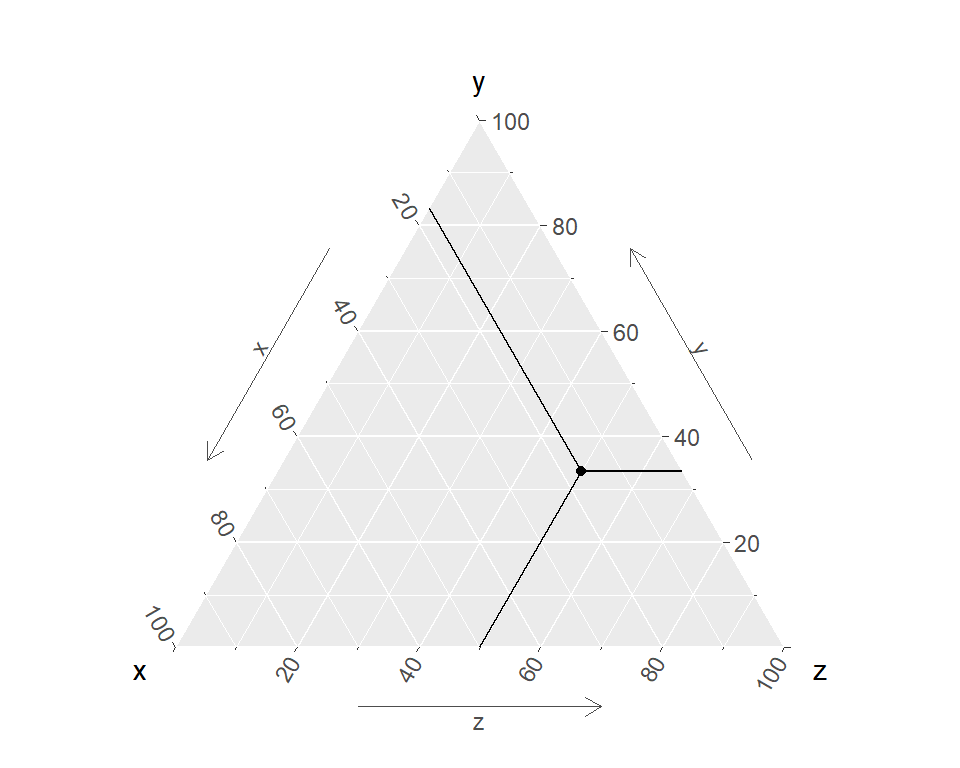
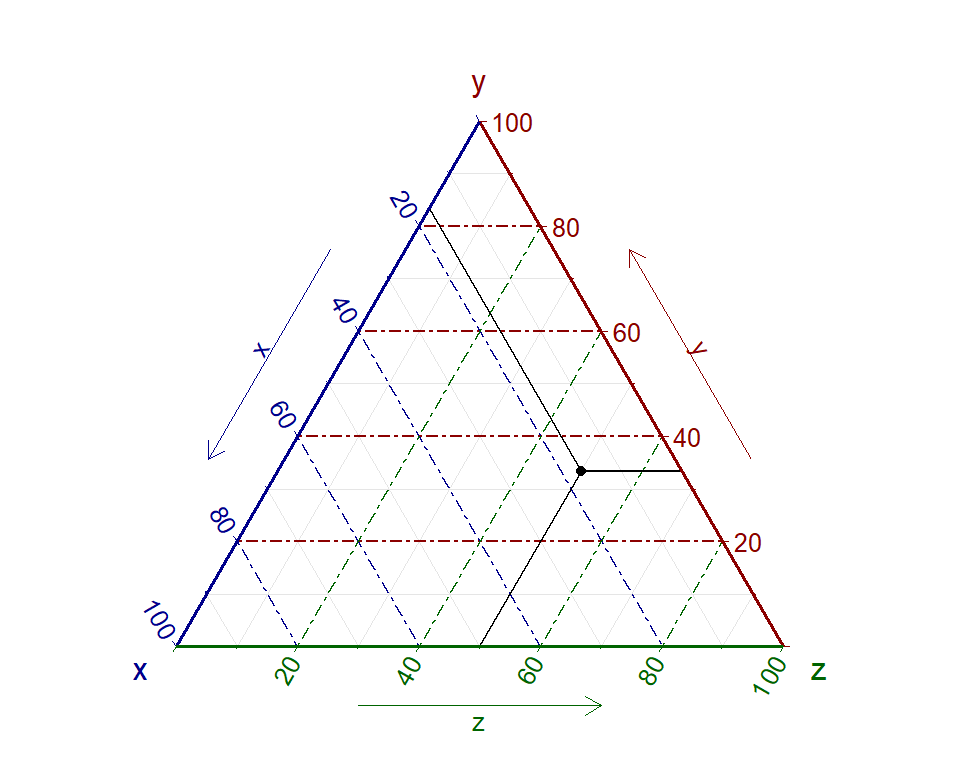
u

diff --git a/_posts/2024-12-20-post-38-creating-ternary-plots-with-ggtern/post-38-creating-ternary-plots-with-ggtern.html b/_posts/2024-12-20-post-38-creating-ternary-plots-with-ggtern/post-38-creating-ternary-plots-with-ggtern.html
@@ -118,7 +118,7 @@ code span.wa { color: #5e5e5e; font-style: italic; } /* Warning */
   <!--/radix_placeholder_rmarkdown_metadata-->
   
   <script type="text/json" id="radix-resource-manifest">
-  {"type":"character","attributes":{},"value":["post-38-creating-ternary-plots-with-ggtern_files/anchor-4.2.2/anchor.min.js","post-38-creating-ternary-plots-with-ggtern_files/bowser-1.9.3/bowser.min.js","post-38-creating-ternary-plots-with-ggtern_files/distill-2.2.21/template.v2.js","post-38-creating-ternary-plots-with-ggtern_files/figure-html5/unnamed-chunk-1-1.png","post-38-creating-ternary-plots-with-ggtern_files/figure-html5/unnamed-chunk-2-1.png","post-38-creating-ternary-plots-with-ggtern_files/figure-html5/unnamed-chunk-3-1.png","post-38-creating-ternary-plots-with-ggtern_files/header-attrs-2.27/header-attrs.js","post-38-creating-ternary-plots-with-ggtern_files/jquery-3.6.0/jquery-3.6.0.js","post-38-creating-ternary-plots-with-ggtern_files/jquery-3.6.0/jquery-3.6.0.min.js","post-38-creating-ternary-plots-with-ggtern_files/jquery-3.6.0/jquery-3.6.0.min.map","post-38-creating-ternary-plots-with-ggtern_files/popper-2.6.0/popper.min.js","post-38-creating-ternary-plots-with-ggtern_files/tippy-6.2.7/tippy-bundle.umd.min.js","post-38-creating-ternary-plots-with-ggtern_files/tippy-6.2.7/tippy-light-border.css","post-38-creating-ternary-plots-with-ggtern_files/tippy-6.2.7/tippy.css","post-38-creating-ternary-plots-with-ggtern_files/tippy-6.2.7/tippy.umd.min.js","post-38-creating-ternary-plots-with-ggtern_files/webcomponents-2.0.0/webcomponents.js"]}
+  {"type":"character","attributes":{},"value":["post-38-creating-ternary-plots-with-ggtern_files/anchor-4.2.2/anchor.min.js","post-38-creating-ternary-plots-with-ggtern_files/bowser-1.9.3/bowser.min.js","post-38-creating-ternary-plots-with-ggtern_files/distill-2.2.21/template.v2.js","post-38-creating-ternary-plots-with-ggtern_files/figure-html5/unnamed-chunk-1-1.png","post-38-creating-ternary-plots-with-ggtern_files/figure-html5/unnamed-chunk-2-1.png","post-38-creating-ternary-plots-with-ggtern_files/figure-html5/unnamed-chunk-3-1.png","post-38-creating-ternary-plots-with-ggtern_files/figure-html5/unnamed-chunk-4-1.png","post-38-creating-ternary-plots-with-ggtern_files/figure-html5/unnamed-chunk-4-2.png","post-38-creating-ternary-plots-with-ggtern_files/figure-html5/unnamed-chunk-5-1.png","post-38-creating-ternary-plots-with-ggtern_files/figure-html5/unnamed-chunk-6-1.png","post-38-creating-ternary-plots-with-ggtern_files/header-attrs-2.27/header-attrs.js","post-38-creating-ternary-plots-with-ggtern_files/jquery-3.6.0/jquery-3.6.0.js","post-38-creating-ternary-plots-with-ggtern_files/jquery-3.6.0/jquery-3.6.0.min.js","post-38-creating-ternary-plots-with-ggtern_files/jquery-3.6.0/jquery-3.6.0.min.map","post-38-creating-ternary-plots-with-ggtern_files/popper-2.6.0/popper.min.js","post-38-creating-ternary-plots-with-ggtern_files/tippy-6.2.7/tippy-bundle.umd.min.js","post-38-creating-ternary-plots-with-ggtern_files/tippy-6.2.7/tippy-light-border.css","post-38-creating-ternary-plots-with-ggtern_files/tippy-6.2.7/tippy.css","post-38-creating-ternary-plots-with-ggtern_files/tippy-6.2.7/tippy.umd.min.js","post-38-creating-ternary-plots-with-ggtern_files/webcomponents-2.0.0/webcomponents.js"]}
   </script>
   <!--radix_placeholder_navigation_in_header-->
   <!--/radix_placeholder_navigation_in_header-->
@@ -1639,10 +1639,10 @@ div.l-body img {
 <p>I remember I first came across a ternary plot in an Ecology textbook years ago when I was learning the classic <a href="https://meristemhorticulture.com/planted/tag/Grime%27s+triangle">Grime’s CRS Triangle</a> for depicting three major plant life strategies (competitor, stress-tolerator, and ruderal) under different stress, resource, and disturbance regimes. I was really fascinated with it, but I didn’t know how to make one myself back then. Now I know, and I thought it would be fun (and useful too!) to write a post on creating ternary plots in ggplot. So let’s dive in!</p>
 <h2 id="ternary-plots-with-ggtern">Ternary plots with <code>ggtern</code></h2>
 <p>The extension package <a href="https://cran.r-project.org/web/packages/ggtern/index.html"><code>ggtern</code></a> provides a suite of functions for creating ternary plots in ggplot. We’ll start from the very basics, gradually add in some variation and complexity, and finally finish by polishing the plot appearance.</p>
-<h3 id="create-a-basic-ternary-plot">1. Create a basic ternary plot</h3>
+<h3 id="start-with-a-point-basic-ternary-plot">1. Start with a point: basic ternary plot</h3>
 <p>First, let’s create a super simple ternary plot with just a single point.</p>
 <p><code>ggtern()</code> is the master function here: it takes a dataframe with three numeric columns, which are then mapped to the “x”, “y”, and “z” aesthetic. If the three columns are not proportions but instead raw values, the function will automatically rescale them so that each row sums to 1.</p>
-<p>In the example below, I also drew the lines connecting the point to the sides using the function <code>geom_crosshair_tern()</code> and added the arrows and labels along the axes using the function <code>theme_arrownormal()</code>. These will help us better understand what the plot is doing.</p>
+<p>In the example below, I drew the lines connecting the point to the sides using the function <code>geom_crosshair_tern()</code>. I also colored the axes and gridlines as well as added the arrows and labels using the function <code>theme_rgbw()</code>. These will help us better understand what the plot is doing.</p>
 <div class="layout-chunk" data-layout="l-body">
 <div class="sourceCode">
 <pre class="sourceCode r"><code class="sourceCode r"><span><span class='kw'><a href='https://rdrr.io/r/base/library.html'>library</a></span><span class='op'>(</span><span class='va'><a href='https://tidyverse.tidyverse.org'>tidyverse</a></span><span class='op'>)</span></span>
@@ -1654,15 +1654,15 @@ div.l-body img {
 <span><span class='co'>### Create a basic ternary plot</span></span>
 <span><span class='fu'><a href='https://rdrr.io/pkg/ggtern/man/ggtern.html'>ggtern</a></span><span class='op'>(</span>data <span class='op'>=</span> <span class='va'>ternary_df_point</span>, <span class='fu'>aes</span><span class='op'>(</span>x <span class='op'>=</span> <span class='va'>x</span>, y <span class='op'>=</span> <span class='va'>y</span>, z <span class='op'>=</span> <span class='va'>z</span><span class='op'>)</span><span class='op'>)</span> <span class='op'>+</span>  <span class='co'># the values will be rescaled </span></span>
 <span>  <span class='fu'><a href='https://ggplot2.tidyverse.org/reference/geom_point.html'>geom_point</a></span><span class='op'>(</span><span class='op'>)</span> <span class='op'>+</span></span>
-<span>  <span class='fu'><a href='https://rdrr.io/pkg/ggtern/man/geom_crosshair_tern.html'>geom_crosshair_tern</a></span><span class='op'>(</span><span class='op'>)</span> <span class='op'>+</span>  <span class='co'># draw the lines</span></span>
-<span>  <span class='fu'><a href='https://rdrr.io/pkg/ggtern/man/theme_arrowlength.html'>theme_arrownormal</a></span><span class='op'>(</span><span class='op'>)</span>  <span class='co'># add the arrows and labels</span></span></code></pre>
+<span>  <span class='fu'><a href='https://rdrr.io/pkg/ggtern/man/geom_crosshair_tern.html'>geom_crosshair_tern</a></span><span class='op'>(</span><span class='op'>)</span> <span class='op'>+</span>  <span class='co'># draw the lines connecting the point to the sides</span></span>
+<span>  <span class='fu'><a href='https://rdrr.io/pkg/ggtern/man/ggtern_themes.html'>theme_rgbw</a></span><span class='op'>(</span><span class='op'>)</span>  <span class='co'># color the axes and gridlines &amp; add the arrows and labels</span></span></code></pre>
 </div>
 <p><img src="post-38-creating-ternary-plots-with-ggtern_files/figure-html5/unnamed-chunk-1-1.png" width="480" style="display: block; margin: auto;" /></p>
 </div>
 <p>If you’re new to ternary plots, you may be scratching your head about how to read the plot. Well, it’s not that difficult once you understand the principle: as indicated by the lines, the point corresponds to an x-value of around 17% (1/6), a y-value of around 33% (2/6), and a z-value of 50% (3/6).</p>
 <p>For plots that do not have the lines (which are most likely what you’ll see in the wild), you can draw mental lines from the point to the sides with the same angle as the numbers. So for example, the numbers on the “x” side have an angle of 120°, so you can draw a line with an angle of 120° from the point to the side and see what the corresponding value is.</p>
-<h3 id="from-points-to-lines">2. From points to lines</h3>
-<p>Now that we have a better idea of how ternary plots work, we can take a step further and add . Instead of just showing the individual points, we can actually connect them to create a “ternary line chart”. This will be useful for visualizing how compositions change over time.</p>
+<h3 id="from-point-to-line-ternary-line-chart">2. From point to line: ternary line chart</h3>
+<p>Now that we have a better idea of how ternary plots work, we can take a step further. Instead of just showing the individual points, we can connect them to create a “ternary line chart”. This will be useful for visualizing how composition changes over time.</p>
 <div class="layout-chunk" data-layout="l-body">
 <div class="sourceCode">
 <pre class="sourceCode r"><code class="sourceCode r"><span><span class='co'>### Generate the data</span></span>
@@ -1677,47 +1677,96 @@ div.l-body img {
 <span>  <span class='fu'><a href='https://ggplot2.tidyverse.org/reference/geom_path.html'>geom_line</a></span><span class='op'>(</span><span class='fu'>aes</span><span class='op'>(</span>color <span class='op'>=</span> <span class='va'>time</span><span class='op'>)</span><span class='op'>)</span> <span class='op'>+</span></span>
 <span>  <span class='fu'><a href='https://ggplot2.tidyverse.org/reference/scale_viridis.html'>scale_color_viridis_c</a></span><span class='op'>(</span>breaks <span class='op'>=</span> <span class='fu'><a href='https://rdrr.io/r/base/c.html'>c</a></span><span class='op'>(</span><span class='fl'>1</span>, <span class='fl'>10</span><span class='op'>)</span><span class='op'>)</span> <span class='op'>+</span> </span>
 <span>  <span class='fu'><a href='https://ggplot2.tidyverse.org/reference/guides.html'>guides</a></span><span class='op'>(</span>color <span class='op'>=</span> <span class='fu'><a href='https://ggplot2.tidyverse.org/reference/guide_colourbar.html'>guide_colorbar</a></span><span class='op'>(</span>reverse <span class='op'>=</span> <span class='cn'>T</span><span class='op'>)</span><span class='op'>)</span> <span class='op'>+</span> </span>
-<span>  <span class='fu'><a href='https://rdrr.io/pkg/ggtern/man/theme_arrowlength.html'>theme_arrownormal</a></span><span class='op'>(</span><span class='op'>)</span></span></code></pre>
+<span>  <span class='fu'><a href='https://rdrr.io/pkg/ggtern/man/theme_arrowlength.html'>theme_arrownormal</a></span><span class='op'>(</span><span class='op'>)</span>  <span class='co'># add the arrows and labels without colors</span></span></code></pre>
 </div>
 <p><img src="post-38-creating-ternary-plots-with-ggtern_files/figure-html5/unnamed-chunk-2-1.png" width="480" style="display: block; margin: auto;" /></p>
 </div>
-<h3 id="contour-ternary-plot">3. Contour ternary plot</h3>
-<p>Next, we’ll go from lines to areas by adding density contours to the ternary plot.</p>
-<p>Remember I mentioned that one application of ternary plots is to visualize the nutrient composition of food, and this is what we’re going to do now.</p>
-<p>We’ll show the carbs, protein, and fat proportion of different food items at starbucks using the <a href=""><code>starbucks</code></a> dataset from the package <code>openintro</code>.</p>
-<p>We can add the contours using the function <code>stat_density_tern()</code>. We also used <code>theme_rgbw()</code> to color the sides for easier reading.</p>
+<h3 id="from-line-to-area-ternary-contour-plot">3. From line to area: ternary contour plot</h3>
+<p>Next, we’ll go from a line to an area by adding density contours to the ternary plot.</p>
+<p>As mentioned in the beginning, one application of ternary plots is visualizing the nutrient composition of food, and this is what we’re going to do now. We’ll use the <code>starbucks</code> dataset from the package <code>openintro</code> to visualize the carbs, protein, and fat content of different food items sold at starbucks.</p>
+<p>We can add density contours to the plot using the function <code>stat_density_tern()</code> and map the relative density “nlevel” (computed via the 2D kernel density estimation) to the “fill” and “alpha” aesthetics. We can adjust how close the contour lines are (i.e., the “steepness” of the slope) using the argument “binwidth”: a larger binwidth produces sparser, smoother contour lines, whereas a smaller binwidth produces denser, more detailed contour lines.</p>
 <div class="layout-chunk" data-layout="l-body">
 <div class="sourceCode">
 <pre class="sourceCode r"><code class="sourceCode r"><span><span class='kw'><a href='https://rdrr.io/r/base/library.html'>library</a></span><span class='op'>(</span><span class='va'><a href='http://openintrostat.github.io/openintro/'>openintro</a></span><span class='op'>)</span>  <span class='co'># for the dataset "starbucks"</span></span>
-<span></span>
 <span><span class='fu'><a href='https://rdrr.io/r/utils/data.html'>data</a></span><span class='op'>(</span><span class='st'>"starbucks"</span><span class='op'>)</span></span>
 <span></span>
-<span><span class='fu'><a href='https://rdrr.io/pkg/ggtern/man/ggtern.html'>ggtern</a></span><span class='op'>(</span>data <span class='op'>=</span> <span class='va'>starbucks</span>,</span>
-<span>       mapping <span class='op'>=</span> <span class='fu'>aes</span><span class='op'>(</span>x <span class='op'>=</span> <span class='va'>carb</span>, y <span class='op'>=</span> <span class='va'>protein</span>, z <span class='op'>=</span> <span class='va'>fat</span><span class='op'>)</span><span class='op'>)</span> <span class='op'>+</span></span>
-<span>  <span class='fu'><a href='https://rdrr.io/pkg/ggtern/man/geom_density_tern.html'>stat_density_tern</a></span><span class='op'>(</span>geom<span class='op'>=</span><span class='st'>"polygon"</span>,</span>
-<span>                     <span class='fu'>aes</span><span class='op'>(</span>fill  <span class='op'>=</span> <span class='fu'><a href='https://ggplot2.tidyverse.org/reference/aes_eval.html'>after_stat</a></span><span class='op'>(</span><span class='va'>nlevel</span><span class='op'>)</span>,</span>
-<span>                         alpha <span class='op'>=</span> <span class='fu'><a href='https://ggplot2.tidyverse.org/reference/aes_eval.html'>after_stat</a></span><span class='op'>(</span><span class='va'>nlevel</span><span class='op'>)</span><span class='op'>)</span>,</span>
-<span>                    binwidth <span class='op'>=</span> <span class='fl'>0.5</span><span class='op'>)</span> <span class='op'>+</span> </span>
-<span>      <span class='fu'><a href='https://rdrr.io/pkg/ggtern/man/geom_density_tern.html'>stat_density_tern</a></span><span class='op'>(</span>geom<span class='op'>=</span><span class='st'>"polygon"</span>,</span>
-<span>                      coutour <span class='op'>=</span> <span class='cn'>T</span>,</span>
-<span>                      color <span class='op'>=</span> <span class='st'>"black"</span>,</span>
-<span>                      fill <span class='op'>=</span> <span class='cn'>NA</span>,</span>
+<span><span class='co'>### Create a ternary contour plot</span></span>
+<span><span class='fu'><a href='https://rdrr.io/pkg/ggtern/man/ggtern.html'>ggtern</a></span><span class='op'>(</span>data <span class='op'>=</span> <span class='va'>starbucks</span>, <span class='fu'>aes</span><span class='op'>(</span>x <span class='op'>=</span> <span class='va'>carb</span>, y <span class='op'>=</span> <span class='va'>protein</span>, z <span class='op'>=</span> <span class='va'>fat</span><span class='op'>)</span><span class='op'>)</span> <span class='op'>+</span></span>
+<span>  <span class='fu'><a href='https://rdrr.io/pkg/ggtern/man/geom_density_tern.html'>stat_density_tern</a></span><span class='op'>(</span>geom <span class='op'>=</span> <span class='st'>"polygon"</span>, </span>
+<span>                    <span class='fu'>aes</span><span class='op'>(</span>fill <span class='op'>=</span> <span class='fu'><a href='https://ggplot2.tidyverse.org/reference/aes_eval.html'>after_stat</a></span><span class='op'>(</span><span class='va'>nlevel</span><span class='op'>)</span>, alpha <span class='op'>=</span> <span class='fu'><a href='https://ggplot2.tidyverse.org/reference/aes_eval.html'>after_stat</a></span><span class='op'>(</span><span class='va'>nlevel</span><span class='op'>)</span><span class='op'>)</span>,</span>
+<span>                    binwidth <span class='op'>=</span> <span class='fl'>0.5</span><span class='op'>)</span> <span class='op'>+</span>   <span class='co'># binwidth controls how close the contour lines are</span></span>
+<span>  <span class='fu'><a href='https://rdrr.io/pkg/ggtern/man/geom_density_tern.html'>stat_density_tern</a></span><span class='op'>(</span>geom <span class='op'>=</span> <span class='st'>"polygon"</span>,</span>
+<span>                    color <span class='op'>=</span> <span class='st'>"black"</span>, </span>
+<span>                    fill <span class='op'>=</span> <span class='cn'>NA</span>,</span>
 <span>                    binwidth <span class='op'>=</span> <span class='fl'>5</span>,</span>
-<span>                    size <span class='op'>=</span> <span class='fl'>0.05</span><span class='op'>)</span> <span class='op'>+</span> </span>
-<span>    <span class='fu'><a href='https://ggplot2.tidyverse.org/reference/geom_point.html'>geom_point</a></span><span class='op'>(</span>size <span class='op'>=</span> <span class='fl'>1</span>, alpha <span class='op'>=</span> <span class='fl'>0.7</span><span class='op'>)</span> <span class='op'>+</span></span>
-<span>    <span class='fu'><a href='https://ggplot2.tidyverse.org/reference/scale_brewer.html'>scale_fill_distiller</a></span><span class='op'>(</span>name <span class='op'>=</span> <span class='st'>"Relative density"</span>, palette <span class='op'>=</span> <span class='st'>"Reds"</span>, direction <span class='op'>=</span> <span class='fl'>1</span>,</span>
-<span>                         breaks <span class='op'>=</span> <span class='fu'><a href='https://rdrr.io/r/base/c.html'>c</a></span><span class='op'>(</span><span class='fl'>0.1</span>, <span class='fl'>0.3</span>, <span class='fl'>0.5</span>, <span class='fl'>0.7</span>, <span class='fl'>0.9</span><span class='op'>)</span><span class='op'>)</span> <span class='op'>+</span> </span>
+<span>                    linewidth <span class='op'>=</span> <span class='fl'>0.1</span><span class='op'>)</span> <span class='op'>+</span> </span>
+<span>  <span class='fu'><a href='https://ggplot2.tidyverse.org/reference/geom_point.html'>geom_point</a></span><span class='op'>(</span>size <span class='op'>=</span> <span class='fl'>1</span>, alpha <span class='op'>=</span> <span class='fl'>0.5</span><span class='op'>)</span> <span class='op'>+</span> </span>
+<span>  <span class='fu'><a href='https://ggplot2.tidyverse.org/reference/scale_brewer.html'>scale_fill_distiller</a></span><span class='op'>(</span>name <span class='op'>=</span> <span class='st'>"Relative density"</span>, </span>
+<span>                       palette <span class='op'>=</span> <span class='st'>"Reds"</span>, </span>
+<span>                       direction <span class='op'>=</span> <span class='fl'>1</span>,</span>
+<span>                       breaks <span class='op'>=</span> <span class='fu'><a href='https://rdrr.io/r/base/c.html'>c</a></span><span class='op'>(</span><span class='fl'>0.1</span>, <span class='fl'>0.3</span>, <span class='fl'>0.5</span>, <span class='fl'>0.7</span>, <span class='fl'>0.9</span><span class='op'>)</span><span class='op'>)</span> <span class='op'>+</span> </span>
 <span>  <span class='fu'><a href='https://ggplot2.tidyverse.org/reference/guides.html'>guides</a></span><span class='op'>(</span>alpha <span class='op'>=</span> <span class='st'>"none"</span><span class='op'>)</span> <span class='op'>+</span> </span>
-<span>    <span class='fu'><a href='https://rdrr.io/pkg/ggtern/man/ggtern_themes.html'>theme_rgbw</a></span><span class='op'>(</span><span class='op'>)</span> <span class='op'>+</span> </span>
+<span>  <span class='fu'><a href='https://rdrr.io/pkg/ggtern/man/ggtern_themes.html'>theme_rgbw</a></span><span class='op'>(</span><span class='op'>)</span> <span class='op'>+</span> </span>
 <span>  <span class='fu'><a href='https://ggplot2.tidyverse.org/reference/theme.html'>theme</a></span><span class='op'>(</span>legend.position <span class='op'>=</span> <span class='fu'><a href='https://rdrr.io/r/base/c.html'>c</a></span><span class='op'>(</span><span class='fl'>1.05</span>, <span class='fl'>0.5</span><span class='op'>)</span>,</span>
 <span>        legend.title <span class='op'>=</span> <span class='fu'><a href='https://ggplot2.tidyverse.org/reference/element.html'>element_text</a></span><span class='op'>(</span>hjust <span class='op'>=</span> <span class='fl'>0.5</span><span class='op'>)</span>,</span>
 <span>        plot.margin <span class='op'>=</span> <span class='fu'><a href='https://ggplot2.tidyverse.org/reference/element.html'>margin</a></span><span class='op'>(</span>r <span class='op'>=</span> <span class='fl'>70</span><span class='op'>)</span><span class='op'>)</span></span></code></pre>
 </div>
 <p><img src="post-38-creating-ternary-plots-with-ggtern_files/figure-html5/unnamed-chunk-3-1.png" width="480" style="display: block; margin: auto;" /></p>
 </div>
-<p>Seems like most food at Starbucks is high in carbs and low in protein (not surprising?!).</p>
-<h3 id="hex-plot-and-tri-plot">4. hex plot and tri plot</h3>
-<h3 id="interpolation-of-z-values">5. Interpolation of z values</h3>
+<p>Seems like most Starbucks food is high in carbs and low in protein (not surprising?!).</p>
+<h3 id="from-area-to-bin-ternary-tribin-and-hexbin-plot">4. From area to bin: ternary tribin and hexbin plot</h3>
+<p>When there are a ton of data points to show, we can run into the issue of overplotting: the overlapping points will make the plot unreadable. A solution is to divide the plot into triangular or hexagonal bins, count the number of points in each bin, and color the bins accordingly. These are easily done with <code>geom_tri_tern()</code> and <code>geom_hex_tern()</code>. We can use the argument “bins” to specify the number of bins along the axes.</p>
+<div class="layout-chunk" data-layout="l-body">
+<div class="sourceCode">
+<pre class="sourceCode r"><code class="sourceCode r"><span><span class='co'>### Generate the data</span></span>
+<span><span class='fu'><a href='https://rdrr.io/r/base/Random.html'>set.seed</a></span><span class='op'>(</span><span class='fl'>1</span><span class='op'>)</span></span>
+<span><span class='va'>ternary_df_tri_hex</span> <span class='op'>&lt;-</span> <span class='fu'><a href='https://rdrr.io/r/base/data.frame.html'>data.frame</a></span><span class='op'>(</span>x <span class='op'>=</span> <span class='fu'><a href='https://rdrr.io/r/stats/Uniform.html'>runif</a></span><span class='op'>(</span><span class='fl'>5000</span><span class='op'>)</span>, </span>
+<span>                                 y <span class='op'>=</span> <span class='fu'><a href='https://rdrr.io/r/stats/Uniform.html'>runif</a></span><span class='op'>(</span><span class='fl'>5000</span><span class='op'>)</span>,</span>
+<span>                                 z <span class='op'>=</span> <span class='fu'><a href='https://rdrr.io/r/stats/Uniform.html'>runif</a></span><span class='op'>(</span><span class='fl'>5000</span><span class='op'>)</span><span class='op'>)</span></span>
+<span></span>
+<span><span class='co'>### Create a ternary tribin plot</span></span>
+<span><span class='fu'><a href='https://rdrr.io/pkg/ggtern/man/ggtern.html'>ggtern</a></span><span class='op'>(</span>data <span class='op'>=</span> <span class='va'>ternary_df_tri_hex</span>, <span class='fu'>aes</span><span class='op'>(</span>x <span class='op'>=</span> <span class='va'>x</span>, y <span class='op'>=</span> <span class='va'>y</span>, z <span class='op'>=</span> <span class='va'>z</span><span class='op'>)</span><span class='op'>)</span> <span class='op'>+</span></span>
+<span>  <span class='fu'><a href='https://rdrr.io/pkg/ggtern/man/geom_tri_tern.html'>geom_tri_tern</a></span><span class='op'>(</span><span class='fu'>aes</span><span class='op'>(</span>fill <span class='op'>=</span> <span class='fu'><a href='https://ggplot2.tidyverse.org/reference/aes_eval.html'>after_stat</a></span><span class='op'>(</span><span class='va'>count</span><span class='op'>)</span><span class='op'>)</span>,</span>
+<span>                bins <span class='op'>=</span> <span class='fl'>10</span><span class='op'>)</span> <span class='op'>+</span>  <span class='co'># number of bins along the axes</span></span>
+<span>  <span class='fu'><a href='https://ggplot2.tidyverse.org/reference/scale_viridis.html'>scale_fill_viridis_c</a></span><span class='op'>(</span><span class='op'>)</span></span></code></pre>
+</div>
+<p><img src="post-38-creating-ternary-plots-with-ggtern_files/figure-html5/unnamed-chunk-4-1.png" width="480" style="display: block; margin: auto;" /></p>
+</div>
+<div class="layout-chunk" data-layout="l-body">
+<div class="sourceCode">
+<pre class="sourceCode r"><code class="sourceCode r"><span><span class='co'>### Create a ternary hexbin plot</span></span>
+<span><span class='fu'><a href='https://rdrr.io/pkg/ggtern/man/ggtern.html'>ggtern</a></span><span class='op'>(</span>data <span class='op'>=</span> <span class='va'>ternary_df_tri_hex</span>, <span class='fu'>aes</span><span class='op'>(</span>x <span class='op'>=</span> <span class='va'>x</span>, y <span class='op'>=</span> <span class='va'>y</span>, z <span class='op'>=</span> <span class='va'>z</span><span class='op'>)</span><span class='op'>)</span> <span class='op'>+</span></span>
+<span>  <span class='fu'><a href='https://rdrr.io/pkg/ggtern/man/geom_hex_tern.html'>geom_hex_tern</a></span><span class='op'>(</span><span class='fu'>aes</span><span class='op'>(</span>fill <span class='op'>=</span> <span class='fu'><a href='https://ggplot2.tidyverse.org/reference/aes_eval.html'>after_stat</a></span><span class='op'>(</span><span class='va'>count</span><span class='op'>)</span><span class='op'>)</span>,</span>
+<span>                bins <span class='op'>=</span> <span class='fl'>20</span><span class='op'>)</span> <span class='op'>+</span> </span>
+<span>  <span class='fu'><a href='https://ggplot2.tidyverse.org/reference/scale_viridis.html'>scale_fill_viridis_c</a></span><span class='op'>(</span><span class='op'>)</span></span></code></pre>
+</div>
+<p><img src="post-38-creating-ternary-plots-with-ggtern_files/figure-html5/unnamed-chunk-5-1.png" width="480" style="display: block; margin: auto;" /></p>
+</div>
+<h3 id="ternary-interpolation-plot">5. Ternary interpolation plot</h3>
+<p>One more cool thing we can do is creating a ternary interpolation plot. We’ll first create a grid of points evenly distributed across the plot area, each associated with a value (“height”). We can then use <code>geom_interpolate_tern()</code> to perform interpolation on these data points and plot the interpolated values as contour lines. The “breaks” argument allows us to specify the interpolated values at which the contour lines are drawn.</p>
+<div class="layout-chunk" data-layout="l-body">
+<div class="sourceCode">
+<pre class="sourceCode r"><code class="sourceCode r"><span><span class='co'>### Generate the data</span></span>
+<span><span class='va'>ternary_df_interpolation</span> <span class='op'>&lt;-</span> <span class='fu'><a href='https://tidyr.tidyverse.org/reference/expand_grid.html'>expand_grid</a></span><span class='op'>(</span>x <span class='op'>=</span> <span class='fu'><a href='https://rdrr.io/r/base/seq.html'>seq</a></span><span class='op'>(</span><span class='fl'>0</span>, <span class='fl'>100</span>, <span class='fl'>10</span><span class='op'>)</span>,</span>
+<span>                                        y <span class='op'>=</span> <span class='fu'><a href='https://rdrr.io/r/base/seq.html'>seq</a></span><span class='op'>(</span><span class='fl'>0</span>, <span class='fl'>100</span>, <span class='fl'>10</span><span class='op'>)</span><span class='op'>)</span> <span class='op'><a href='https://magrittr.tidyverse.org/reference/pipe.html'>%&gt;%</a></span> </span>
+<span>  <span class='fu'><a href='https://dplyr.tidyverse.org/reference/mutate.html'>mutate</a></span><span class='op'>(</span>z <span class='op'>=</span> <span class='fl'>100</span> <span class='op'>-</span> <span class='va'>x</span> <span class='op'>-</span> <span class='va'>y</span><span class='op'>)</span> <span class='op'><a href='https://magrittr.tidyverse.org/reference/pipe.html'>%&gt;%</a></span> </span>
+<span>  <span class='fu'><a href='https://dplyr.tidyverse.org/reference/filter.html'>filter</a></span><span class='op'>(</span><span class='va'>z</span> <span class='op'>&gt;=</span> <span class='fl'>0</span><span class='op'>)</span> <span class='op'><a href='https://magrittr.tidyverse.org/reference/pipe.html'>%&gt;%</a></span> </span>
+<span>  <span class='fu'><a href='https://dplyr.tidyverse.org/reference/mutate.html'>mutate</a></span><span class='op'>(</span>height <span class='op'>=</span> <span class='va'>x</span> <span class='op'>*</span> <span class='va'>y</span> <span class='op'>-</span> <span class='fl'>0.05</span> <span class='op'>*</span> <span class='va'>z</span><span class='op'>)</span></span>
+<span></span>
+<span><span class='co'>### Create a ternary interpolation plot</span></span>
+<span><span class='kw'><a href='https://rdrr.io/r/base/library.html'>library</a></span><span class='op'>(</span><span class='va'><a href='https://dieghernan.github.io/tidyterra/'>tidyterra</a></span><span class='op'>)</span>  <span class='co'># for the function "scale_color_hypso_c()"</span></span>
+<span></span>
+<span><span class='fu'><a href='https://rdrr.io/pkg/ggtern/man/ggtern.html'>ggtern</a></span><span class='op'>(</span>data <span class='op'>=</span> <span class='va'>ternary_df_interpolation</span>, <span class='fu'><a href='https://ggplot2.tidyverse.org/reference/aes.html'>aes</a></span><span class='op'>(</span>x <span class='op'>=</span> <span class='va'>x</span>, y <span class='op'>=</span> <span class='va'>y</span>, z <span class='op'>=</span> <span class='va'>z</span>, value <span class='op'>=</span> <span class='va'>height</span><span class='op'>)</span><span class='op'>)</span> <span class='op'>+</span></span>
+<span>  <span class='fu'><a href='https://rdrr.io/pkg/ggtern/man/geom_interpolate_tern.html'>geom_interpolate_tern</a></span><span class='op'>(</span><span class='fu'><a href='https://ggplot2.tidyverse.org/reference/aes.html'>aes</a></span><span class='op'>(</span>color <span class='op'>=</span> <span class='fu'><a href='https://ggplot2.tidyverse.org/reference/aes_eval.html'>after_stat</a></span><span class='op'>(</span><span class='va'>level</span><span class='op'>)</span><span class='op'>)</span>,</span>
+<span>                        base <span class='op'>=</span> <span class='st'>"identity"</span>,</span>
+<span>                        breaks <span class='op'>=</span> <span class='fu'><a href='https://rdrr.io/r/base/seq.html'>seq</a></span><span class='op'>(</span><span class='fl'>1</span>, <span class='fl'>3000</span>, length.out <span class='op'>=</span> <span class='fl'>30</span><span class='op'>)</span>,  <span class='co'># the interpolated values to draw contour lines</span></span>
+<span>                        size <span class='op'>=</span> <span class='fl'>2</span><span class='op'>)</span> <span class='op'>+</span></span>
+<span>  <span class='fu'><a href='https://ggplot2.tidyverse.org/reference/geom_point.html'>geom_point</a></span><span class='op'>(</span><span class='fu'><a href='https://ggplot2.tidyverse.org/reference/aes.html'>aes</a></span><span class='op'>(</span>color <span class='op'>=</span> <span class='va'>height</span><span class='op'>)</span><span class='op'>)</span> <span class='op'>+</span> </span>
+<span>  <span class='fu'><a href='https://dieghernan.github.io/tidyterra/reference/scale_hypso.html'>scale_color_hypso_c</a></span><span class='op'>(</span>name <span class='op'>=</span> <span class='st'>"Height"</span>, palette <span class='op'>=</span> <span class='st'>"dem_screen"</span>, limits <span class='op'>=</span> <span class='fu'><a href='https://rdrr.io/r/base/c.html'>c</a></span><span class='op'>(</span><span class='fl'>0</span>, <span class='fl'>3000</span><span class='op'>)</span><span class='op'>)</span> <span class='op'>+</span></span>
+<span>  <span class='fu'>theme_bw</span><span class='op'>(</span><span class='op'>)</span></span></code></pre>
+</div>
+<p><img src="post-38-creating-ternary-plots-with-ggtern_files/figure-html5/unnamed-chunk-6-1.png" width="480" style="display: block; margin: auto;" /></p>
+</div>
 <h3 id="adjust-the-appearance-and-axis-and-annotations">6. Adjust the appearance and axis and annotations</h3>
 <h2 id="summary">Summary</h2>
 <p>Hope you learn something useful from this post and don’t forget to leave your comments and suggestions below if you have any!</p>
